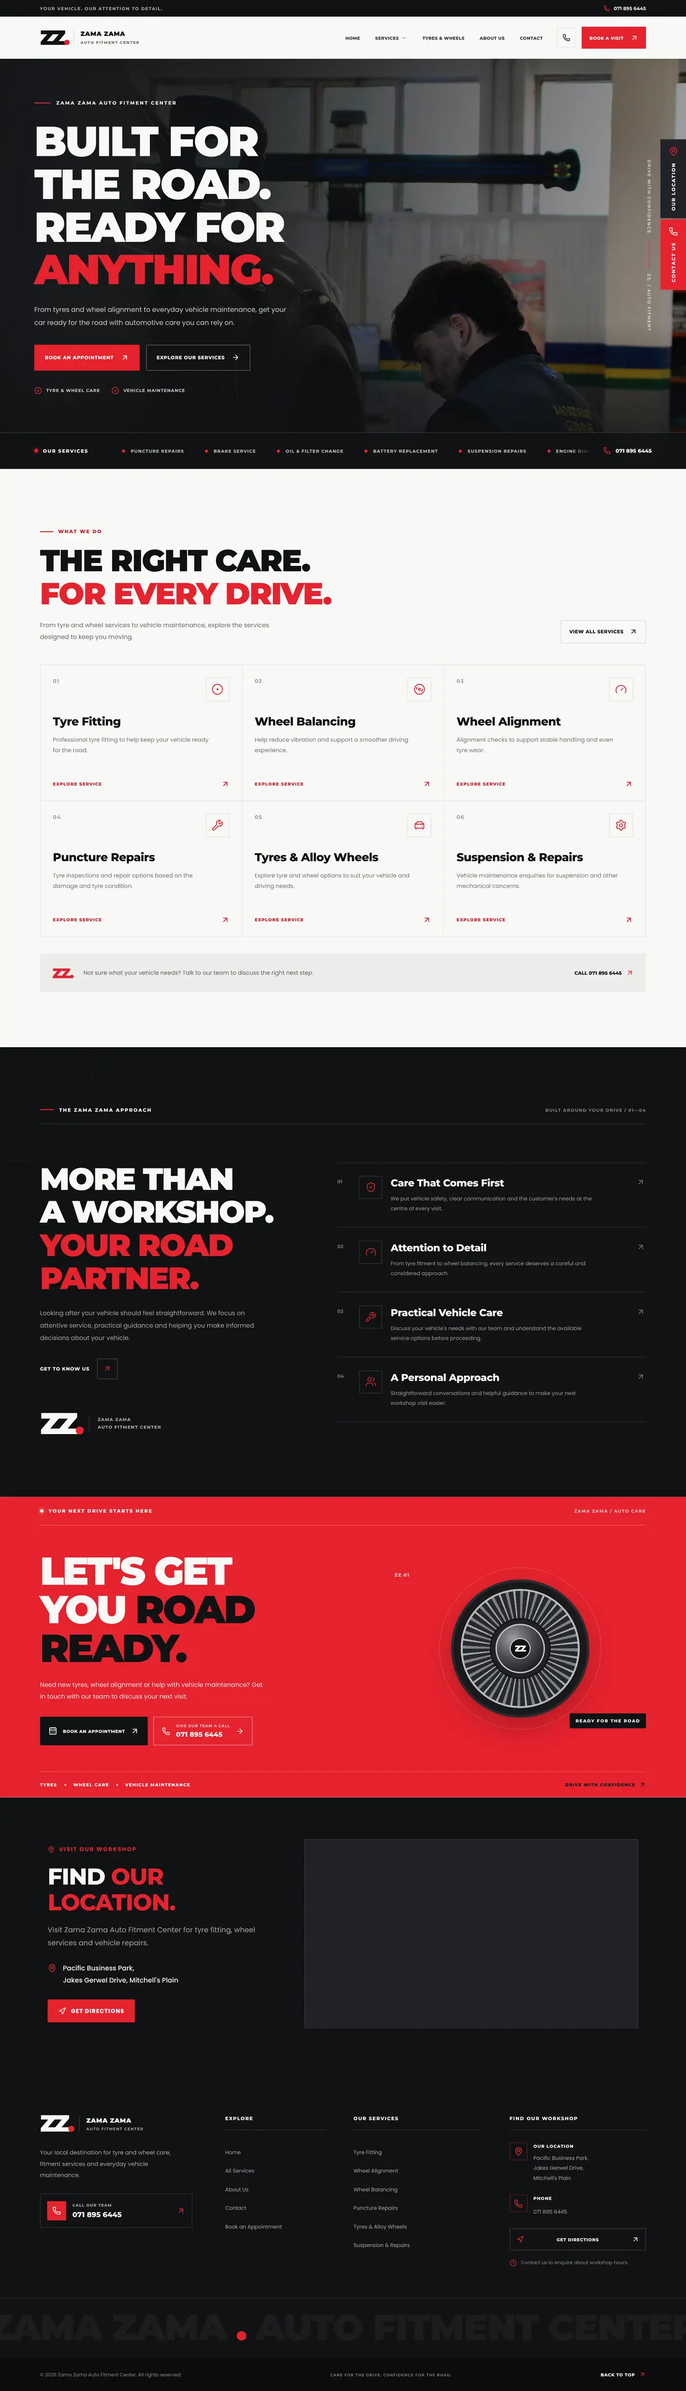
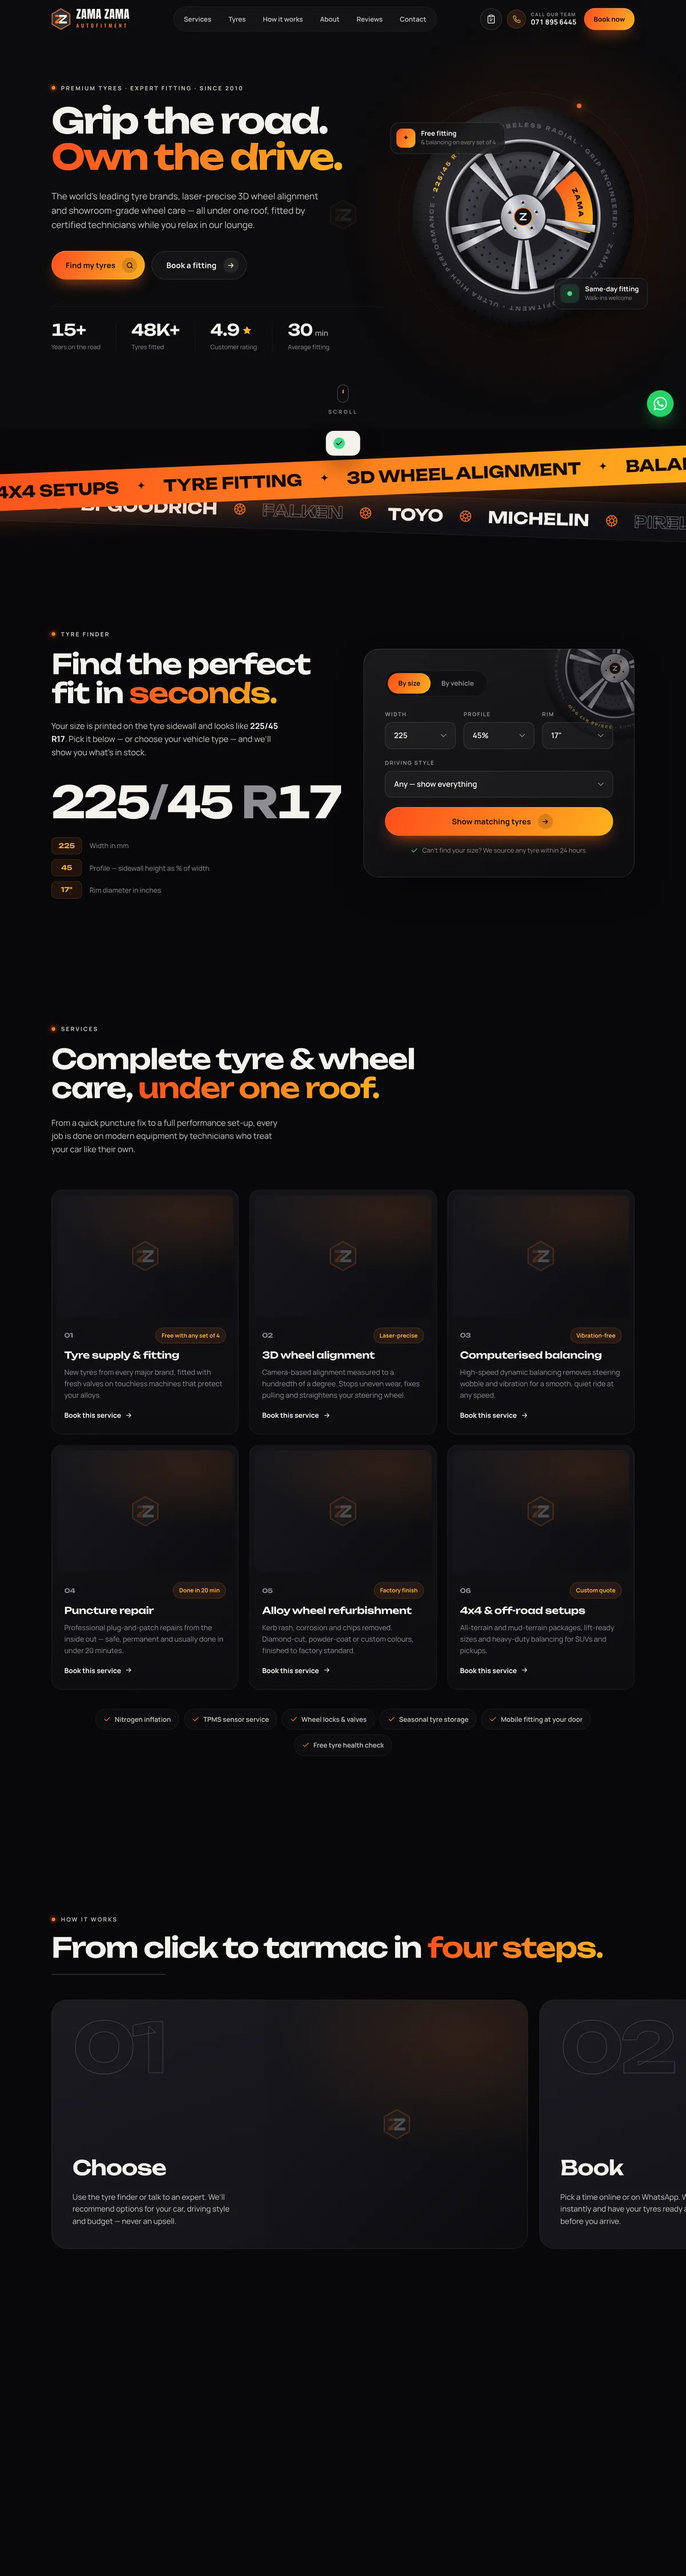
Zama Zama: link to zamazama.site and show the new site
- Live link is now https://zamazama.site
- Fresh screenshots of the redesigned one-page site: home, services,
  featured tyres, a scroll capture and the phone view
- Case study copy and tech updated to match the new build
- Re-rendered the Open After Hours boards, which show this site

Claude-Session: https://claude.ai/code/session_012K92pXkhgxeHQ2kEznRsTX

diff --git a/lib/live-projects.ts b/lib/live-projects.ts
@@ -90,13 +90,13 @@ export const liveProjects: Project[] = [
     discipline: "Service Website · Bookings",
     categories: ["web"],
     kind: "live",
-    summary: "A multi-page website for a tyre, wheel and vehicle-care centre, with online appointment booking.",
-    overview: "A service website for Zama Zama Auto Fitment Center covering tyres, wheels and vehicle care, with a dedicated page for each service and a clear path to book an appointment.",
-    features: ["Tyre fitting, wheel alignment and wheel balancing pages", "Puncture repairs, suspension and mechanical pages", "Tyres and wheels section", "Appointment booking page", "Workshop location and contact", "Responsive, fast-loading layouts"],
-    tech: ["Next.js", "React", "CSS Modules"],
-    services: ["Web design", "Information architecture", "Next.js development"],
-    ...screens("zama-zama", "Zama Zama Auto Fitment", ["Home", "Services", "Book an appointment"], 4178),
-    liveUrl: "https://zama-zamawebsite.vercel.app",
+    summary: "A tyre and wheel-care centre in Cape Town, with tyre search, a featured-tyre catalogue and online bay booking.",
+    overview: "Zama Zama Autofitment supplies and fits tyres in Mitchell's Plain, Cape Town. The website puts the whole visit on one scrolling page: find the right tyre, see every service, follow four steps from click to fitting and reserve a bay in under a minute.",
+    features: ["Tyre finder by size", "Six service cards: fitting, 3D alignment, balancing, puncture repair, alloy refurbishment, 4x4 setups", "Four-step booking journey", "Featured-tyre catalogue with filters and add-to-quote", "Bay reservation form with confirmation", "FAQ, opening hours and WhatsApp contact", "GSAP scroll animation and smooth scrolling"],
+    tech: ["HTML", "CSS", "JavaScript", "GSAP", "Lenis"],
+    services: ["Web design", "Motion design", "Front-end development"],
+    ...screens("zama-zama", "Zama Zama Auto Fitment", ["Home", "Services", "Featured tyres"], 4500),
+    liveUrl: "https://zamazama.site",
   },
   {
     slug: "burger-in-town",
